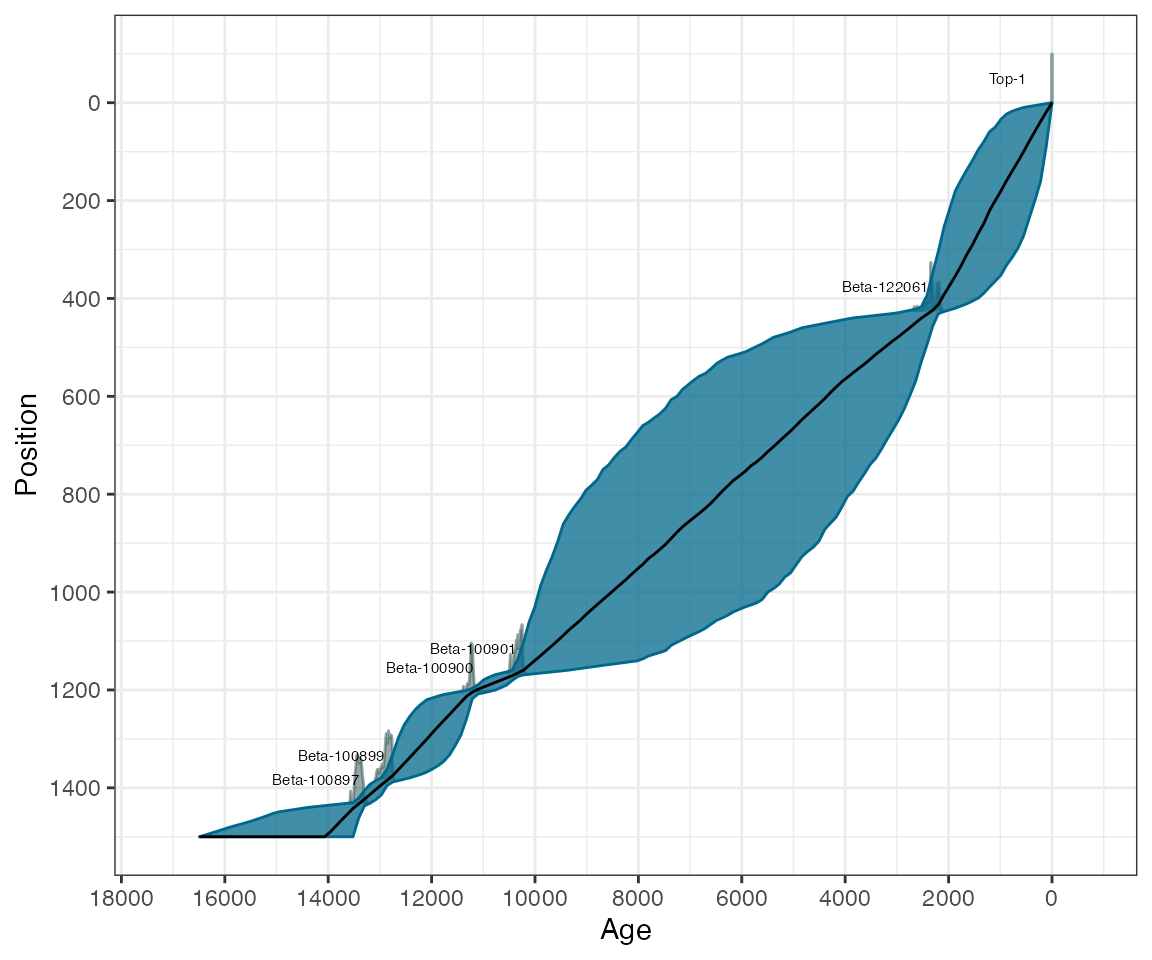
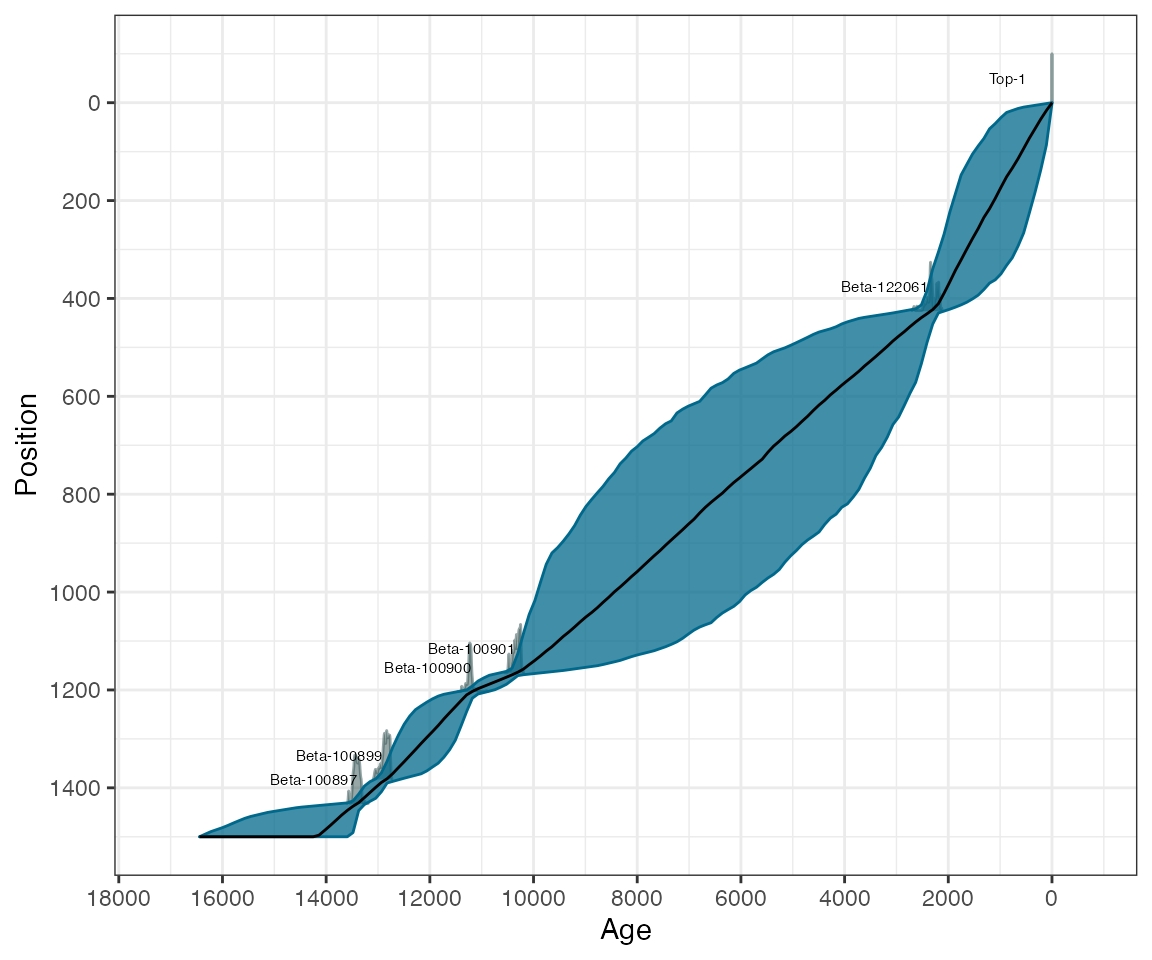
Fixed typo in vignettte

diff --git a/docs/articles/Bchron.html b/docs/articles/Bchron.html
@@ -76,7 +76,7 @@
       <h1 data-toc-skip>Using Bayesian radiocarbon chronology package Bchron</h1>
                         <h4 class="author">Andrew Parnell</h4>
             
-            <h4 class="date">2021-09-08</h4>
+            <h4 class="date">2021-09-09</h4>
       
       <small class="dont-index">Source: <a href="https://github.com/andrewcparnell/Bchron/blob/master/vignettes/Bchron.Rmd"><code>vignettes/Bchron.Rmd</code></a></small>
       <div class="hidden name"><code>Bchron.Rmd</code></div>
@@ -206,15 +206,15 @@
 <span class="va">age_samples</span> <span class="op">&lt;-</span> <span class="fu"><a href="../reference/sampleAges.html">sampleAges</a></span><span class="op">(</span><span class="va">ages3</span><span class="op">)</span>
 <span class="co"># Now summarise them with quantile - this gives a 95% credible interval</span>
 <span class="fu"><a href="https://rdrr.io/r/base/apply.html">apply</a></span><span class="op">(</span><span class="va">age_samples</span>, <span class="fl">2</span>, <span class="va">quantile</span>, prob <span class="op">=</span> <span class="fu"><a href="https://rdrr.io/r/base/c.html">c</a></span><span class="op">(</span><span class="fl">0.025</span>, <span class="fl">0.975</span><span class="op">)</span><span class="op">)</span></code></pre></div>
-<pre><code>##       Date1    Date2
-## 2.5%   3570 10610.00
-## 97.5%  3835 11406.02</code></pre>
+<pre><code>##       Date1 Date2
+## 2.5%   3571 10601
+## 97.5%  3833 11396</code></pre>
 <p>The <code>sampleAges</code> function introduces some uncertainty as it is a simple random sample. This means that repeatedly running it will give you slightly different results. If you require precision at a yearly level, you might want to increase the <code>n_samp</code> argument though will slow the function down a little.</p>
 <p>If you wanted to find each date’s median age (though this is often an inappropriate summary and should be treated with caution), use:</p>
 <div class="sourceCode" id="cb17"><pre class="downlit sourceCode r">
 <code class="sourceCode R"><span class="fu"><a href="https://rdrr.io/r/base/apply.html">apply</a></span><span class="op">(</span><span class="va">age_samples</span>, <span class="fl">2</span>, <span class="va">quantile</span>, prob <span class="op">=</span> <span class="fu"><a href="https://rdrr.io/r/base/c.html">c</a></span><span class="op">(</span><span class="fl">0.5</span><span class="op">)</span><span class="op">)</span></code></pre></div>
 <pre><code>## Date1 Date2 
-##  3704 10995</code></pre>
+##  3703 10997</code></pre>
 <p>The calibration code is very fast. On a standard PC you should have no trouble calibrating thousands of dates simultaneously without a noticeably long wait.</p>
 </div>
 <div id="comparing-ages" class="section level2">
@@ -269,28 +269,28 @@
 <pre><code>## Convergence check (watch for too many small p-values): 
 ##             p-value
 ## RateMean    0.00000
-## Outlier 2   0.00691
-## Outlier 4   0.01238
-## Outlier 6   0.01238
-## RateVar     0.03329
-## Beta-100901 0.04419
-## Beta-100900 0.10106
-## Beta-100897 0.12532
-## Beta-100899 0.15307
-## Outlier 1   0.15866
-## Outlier 5   0.20735
-## Beta-122061 0.28317
-## Top-1       0.42320
-## Outlier 3   0.42869</code></pre>
+## Outlier 5   0.00389
+## Outlier 2   0.02243
+## Outlier 3   0.02243
+## RateVar     0.09003
+## Outlier 6   0.13302
+## Beta-100900 0.17030
+## Beta-100901 0.23782
+## Top-1       0.31117
+## Outlier 4   0.35820
+## Outlier 1   0.35861
+## Beta-100899 0.44732
+## Beta-100897 0.45706
+## Beta-122061 0.48575</code></pre>
 <div class="sourceCode" id="cb27"><pre class="downlit sourceCode r">
 <code class="sourceCode R"><span class="fu"><a href="https://rdrr.io/r/base/summary.html">summary</a></span><span class="op">(</span><span class="va">GlenOut</span>, type <span class="op">=</span> <span class="st">"outliers"</span><span class="op">)</span></code></pre></div>
 <pre><code>## Posterior outlier probability by date: 
 ##         Date OutlierProb
-##        Top-1       0.003
-##  Beta-122061       0.010
-##  Beta-100901       0.012
-##  Beta-100900       0.007
-##  Beta-100899       0.009
+##        Top-1       0.009
+##  Beta-122061       0.005
+##  Beta-100901       0.008
+##  Beta-100900       0.013
+##  Beta-100899       0.008
 ##  Beta-100897       0.008</code></pre>
 <p>The first summary command produces ages for each position supplied in the <code>predictPositions</code> argument above (output not shown as it’s too long). The second provides convergence diagnostics. The third gives outlier probabilities. The <code>plot</code> command will produce an age-position plot:</p>
 <div class="sourceCode" id="cb29"><pre class="downlit sourceCode r">
@@ -380,12 +380,12 @@ run = Bchronology(ages=mydata[,1],ageSds=mydata[,2], ...</code></pre>
 <div class="sourceCode" id="cb36"><pre class="downlit sourceCode r">
 <code class="sourceCode R"><span class="fu"><a href="https://rdrr.io/r/base/summary.html">summary</a></span><span class="op">(</span><span class="va">GlenOut</span>, type <span class="op">=</span> <span class="st">"max_var"</span><span class="op">)</span></code></pre></div>
 <pre><code>## Top 3 positions with maximum age variance are: 
-## 780 770 760</code></pre>
+## 790 850 780</code></pre>
 <p>You can control the number of positions reported with <code>numPos</code>. For example you could now add a line to mark the most variably layer to the plot with:</p>
 <div class="sourceCode" id="cb38"><pre class="downlit sourceCode r">
 <code class="sourceCode R"><span class="va">max_var</span> <span class="op">&lt;-</span> <span class="fu"><a href="https://rdrr.io/r/base/summary.html">summary</a></span><span class="op">(</span><span class="va">GlenOut</span>, type <span class="op">=</span> <span class="st">"max_var"</span>, numPos <span class="op">=</span> <span class="fl">1</span><span class="op">)</span></code></pre></div>
 <pre><code>## Position with maximum age variance is: 
-## 780</code></pre>
+## 790</code></pre>
 <div class="sourceCode" id="cb40"><pre class="downlit sourceCode r">
 <code class="sourceCode R"><span class="fu"><a href="https://rdrr.io/r/graphics/plot.default.html">plot</a></span><span class="op">(</span><span class="va">GlenOut</span><span class="op">)</span> <span class="op">+</span>
   <span class="fu"><a href="https://ggplot2.tidyverse.org/reference/labs.html">labs</a></span><span class="op">(</span>
@@ -529,7 +529,7 @@ run = Bchronology(ages=mydata[,1],ageSds=mydata[,2], ...</code></pre>
 <div id="calibrating-marine-and-other-offset-age-ranges" class="section level2">
 <h2 class="hasAnchor">
 <a href="#calibrating-marine-and-other-offset-age-ranges" class="anchor"></a>Calibrating marine and other offset age ranges</h2>
-<p>Periodically people want to calibrate dates which have an age offset and an offset error. This is very simple in Bchron and requires no additional Bchron commands. So for example, if you had a date of 3000 14C years with 1-sigma error of 50 14C years, but you want to incorporate a reservoir correction with 80 14C years and a 1-sigma error of 30 14C years, then you can just calibrate 3080 years with a radiocarbon error of sqrt(50<sup>{2}+30</sup>{2}) = 58.3 years. In Bchron this becomes:</p>
+<p>Periodically people want to calibrate dates which have an age offset and an offset error. This is very simple in Bchron and requires no additional Bchron commands. So for example, if you had a date of 3000 14C years with 1-sigma error of 50 14C years, but you want to incorporate a reservoir correction with 80 14C years and a 1-sigma error of 30 14C years, then you can just calibrate 3080 years with a radiocarbon error of sqrt(50^2 + 30^2) = 58.3 years. In Bchron this becomes:</p>
 <div class="sourceCode" id="cb54"><pre class="downlit sourceCode r">
 <code class="sourceCode R"><span class="va">age_rc</span> <span class="op">&lt;-</span> <span class="fu"><a href="../reference/BchronCalibrate.html">BchronCalibrate</a></span><span class="op">(</span>
   age <span class="op">=</span> <span class="fl">3000</span> <span class="op">+</span> <span class="fl">80</span>,
